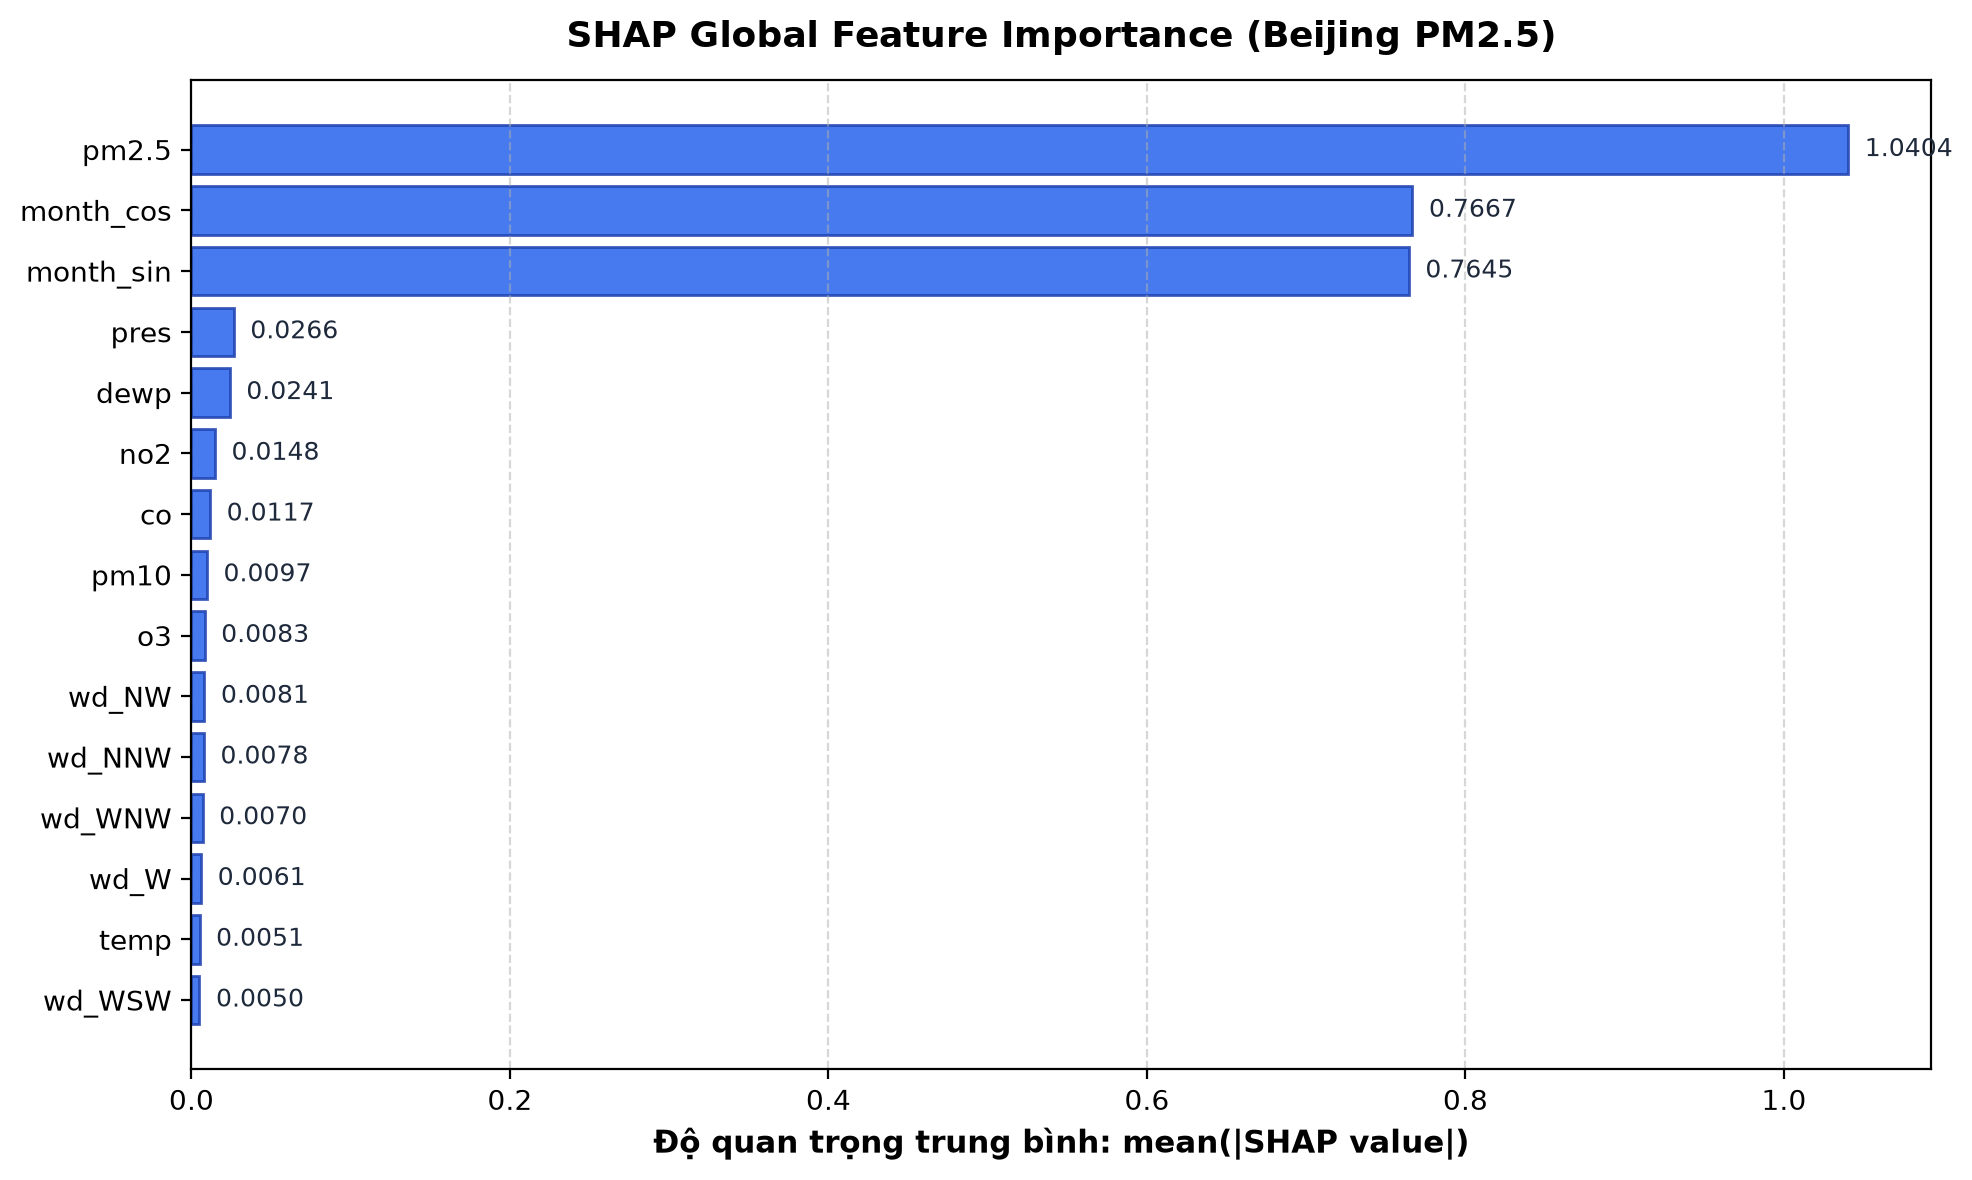
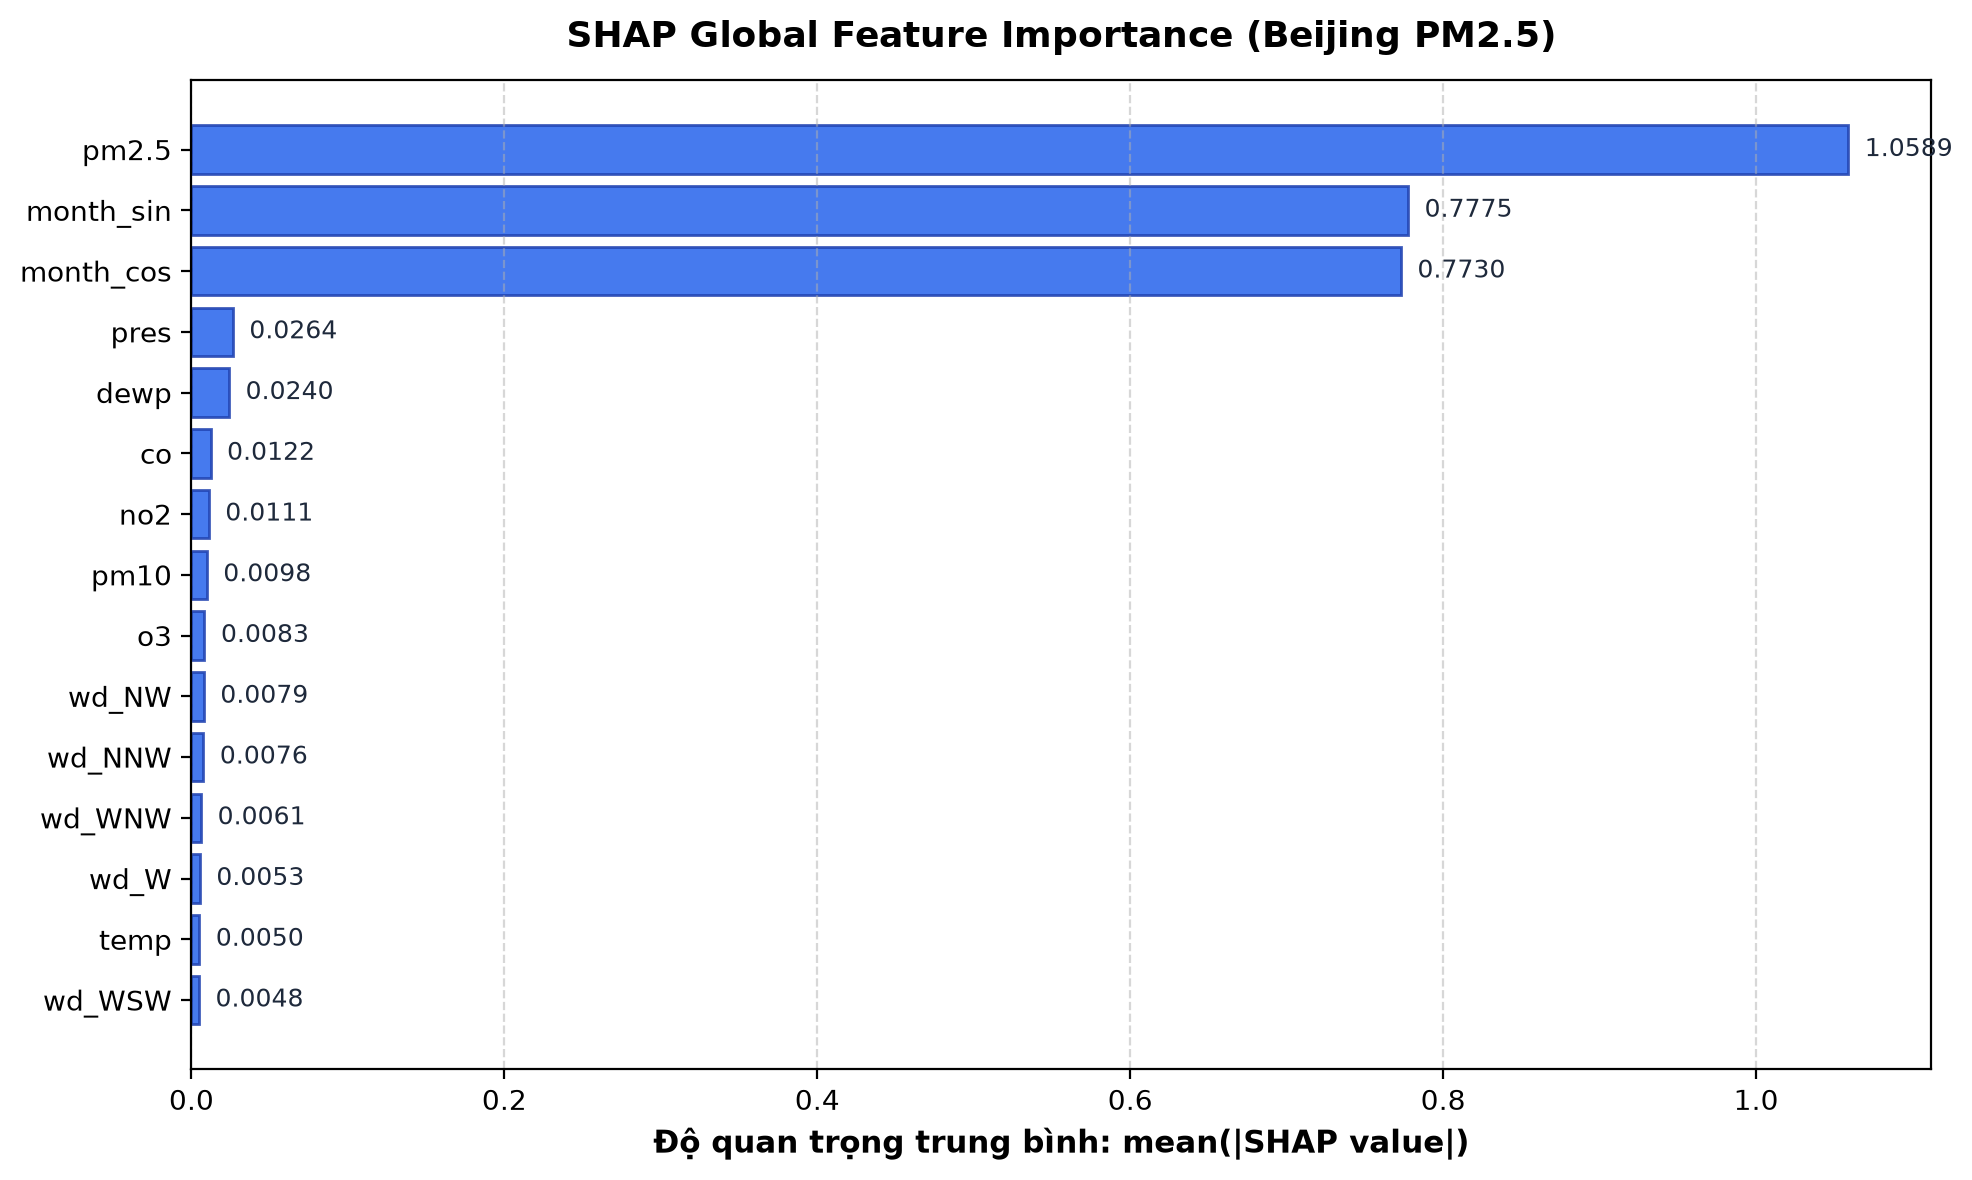
[BPM25_T0401] feat(xai): bo sung bo 4 bieu do SHAP truc quan hoa toan dien

diff --git a/course_project/src/xai/shap_explainer.py b/course_project/src/xai/shap_explainer.py
@@ -45,10 +45,8 @@ class _HorizonModel(nn.Module):
         """
         preds = self.model(x)
         if preds.ndim == 2:
-            # Mô hình trả về dạng [B, H] -> trích xuất thành [B, 1]
             return preds[:, self.target_horizon_idx : self.target_horizon_idx + 1]
         elif preds.ndim == 3:
-            # Mô hình trả về dạng [B, H, 1] -> trích xuất thành [B, 1]
             return preds[:, self.target_horizon_idx, :]
         else:
             raise ValueError(f"Dự báo mô hình có số chiều không hợp lệ: {preds.shape}")
@@ -100,7 +98,6 @@ class SHAPExplainer:
 
         shap_values = np.asarray(shap_values)
 
-        # Chuẩn hóa về đúng 3 chiều [N, L, D] nếu bị dính chiều output [N, L, D, 1]
         if shap_values.ndim == 4 and shap_values.shape[-1] == 1:
             shap_values = np.squeeze(shap_values, axis=-1)
 
@@ -174,14 +171,12 @@ class SHAPExplainer:
         sorted_feats = list(importance_dict.keys())[:top_k]
         sorted_scores = list(importance_dict.values())[:top_k]
 
-        # Đảo ngược thứ tự để biến quan trọng nhất nằm trên cùng
         sorted_feats.reverse()
         sorted_scores.reverse()
 
         fig, ax = plt.subplots(figsize=(10, 6), dpi=150)
         bars = ax.barh(sorted_feats, sorted_scores, color="#2563eb", edgecolor="#1e40af", alpha=0.85)
 
-        # Ghi giá trị số lên đầu mỗi cột
         for bar in bars:
             width = bar.get_width()
             ax.text(
@@ -202,9 +197,168 @@ class SHAPExplainer:
         if save_path:
             Path(save_path).parent.mkdir(parents=True, exist_ok=True)
             fig.savefig(save_path, dpi=200, bbox_inches="tight")
-            print(f"[INFO] Đã lưu biểu đồ SHAP tại: {save_path}")
+            print(f"[INFO] Đã lưu biểu đồ Xếp hạng tại: {save_path}")
 
         return fig
+
+    def plot_temporal_profile(
+        self,
+        shap_values: np.ndarray,
+        save_path: Optional[str] = None,
+        top_k: int = 6,
+        title: str = "Độ ảnh hưởng của 96 giờ quá khứ theo từng biến (Temporal SHAP Profile)",
+    ) -> plt.Figure:
+        """Vẽ biểu đồ đường thể hiện mức độ quan trọng qua 96 bước thời gian quan sát.
+
+        Args:
+            shap_values: Mảng SHAP có kích thước [N, L=96, D].
+            save_path: Đường dẫn file PNG để lưu biểu đồ.
+            top_k: Số biến hàng đầu cần vẽ đường diễn biến thời gian.
+            title: Tiêu đề biểu đồ.
+
+        Returns:
+            Đối tượng Figure của Matplotlib.
+        """
+        if shap_values.ndim == 4 and shap_values.shape[-1] == 1:
+            shap_values = np.squeeze(shap_values, axis=-1)
+
+        # Tính mean(|SHAP|) theo từng bước thời gian: [L, D]
+        temporal_imp = np.mean(np.abs(shap_values), axis=0)
+        lookback = temporal_imp.shape[0]
+        hours = np.arange(-lookback, 0)
+
+        importance_dict = self.get_global_feature_importance(shap_values)
+        top_feats = list(importance_dict.keys())[:top_k]
+
+        fig, ax = plt.subplots(figsize=(11, 5), dpi=150)
+        colors = ["#dc2626", "#2563eb", "#16a34a", "#d97706", "#9333ea", "#0891b2"]
+
+        for idx, feat in enumerate(top_feats):
+            feat_idx = self.feature_names.index(feat)
+            curve = temporal_imp[:, feat_idx]
+            color = colors[idx % len(colors)]
+            ax.plot(hours, curve, label=feat, color=color, linewidth=2, alpha=0.9)
+
+        ax.set_xlabel("Thời gian quá khứ (từ t-96 đến t-1 giờ)", fontsize=11, fontweight="bold")
+        ax.set_ylabel("mean(|SHAP value|)", fontsize=11, fontweight="bold")
+        ax.set_title(title, fontsize=13, fontweight="bold", pad=12)
+        ax.axvline(x=-24, color="gray", linestyle=":", label="Mốc 24h trước")
+        ax.axvline(x=-12, color="orange", linestyle=":", label="Mốc 12h trước")
+        ax.grid(True, linestyle="--", alpha=0.5)
+        ax.legend(loc="upper left", frameon=True)
+        plt.tight_layout()
+
+        if save_path:
+            Path(save_path).parent.mkdir(parents=True, exist_ok=True)
+            fig.savefig(save_path, dpi=200, bbox_inches="tight")
+            print(f"[INFO] Đã lưu biểu đồ Temporal Profile tại: {save_path}")
+
+        return fig
+
+    def plot_domain_groups(
+        self,
+        shap_values: np.ndarray,
+        save_path: Optional[str] = None,
+        title: str = "Tỷ trọng đóng góp theo nhóm đặc trưng (Domain Groups Breakdown)",
+    ) -> plt.Figure:
+        """Vẽ biểu đồ tròn Donut phân rã đóng góp theo 4 nhóm biến khoa học.
+
+        Args:
+            shap_values: Mảng SHAP có kích thước [N, L, D].
+            save_path: Đường dẫn file PNG để lưu biểu đồ.
+            title: Tiêu đề biểu đồ.
+
+        Returns:
+            Đối tượng Figure của Matplotlib.
+        """
+        importance_dict = self.get_global_feature_importance(shap_values)
+
+        groups = {
+            "Bụi tự hồi quy\n(PM2.5, PM10)": 0.0,
+            "Khí phát thải\n(SO2, NO2, CO, O3)": 0.0,
+            "Khí tượng & Gió\n(TEMP, DEW, PRES, WD...)": 0.0,
+            "Chu kỳ thời gian\n(Giờ & Tháng sin/cos)": 0.0,
+        }
+
+        for feat, score in importance_dict.items():
+            feat_lower = feat.lower()
+            if feat_lower in ["pm2.5", "pm10"]:
+                groups["Bụi tự hồi quy\n(PM2.5, PM10)"] += score
+            elif feat_lower in ["so2", "no2", "co", "o3"]:
+                groups["Khí phát thải\n(SO2, NO2, CO, O3)"] += score
+            elif any(k in feat_lower for k in ["hour_", "month_"]):
+                groups["Chu kỳ thời gian\n(Giờ & Tháng sin/cos)"] += score
+            else:
+                groups["Khí tượng & Gió\n(TEMP, DEW, PRES, WD...)"] += score
+
+        labels = list(groups.keys())
+        values = list(groups.values())
+        colors = ["#ef4444", "#f59e0b", "#3b82f6", "#10b981"]
+
+        fig, ax = plt.subplots(figsize=(8, 6), dpi=150)
+        wedges, texts, autotexts = ax.pie(
+            values,
+            labels=labels,
+            autopct="%1.1f%%",
+            startangle=140,
+            colors=colors,
+            pctdistance=0.75,
+            wedgeprops=dict(width=0.45, edgecolor="white", linewidth=2),
+        )
+
+        for autotext in autotexts:
+            autotext.set_color("white")
+            autotext.set_fontsize(10)
+            autotext.set_fontweight("bold")
+
+        ax.set_title(title, fontsize=13, fontweight="bold", pad=12)
+        plt.tight_layout()
+
+        if save_path:
+            Path(save_path).parent.mkdir(parents=True, exist_ok=True)
+            fig.savefig(save_path, dpi=200, bbox_inches="tight")
+            print(f"[INFO] Đã lưu biểu đồ Nhóm đặc trưng tại: {save_path}")
+
+        return fig
+
+    def plot_beeswarm_summary(
+        self,
+        shap_values: np.ndarray,
+        test_samples: torch.Tensor,
+        save_path: Optional[str] = None,
+        top_k: int = 12,
+    ) -> None:
+        """Vẽ biểu đồ Beeswarm thể hiện chiều hướng tác động (dương/âm) của các biến.
+
+        Args:
+            shap_values: Mảng SHAP có kích thước [N, L, D].
+            test_samples: Tensor dữ liệu kiểm tra [N, L, D].
+            save_path: Đường dẫn file PNG để lưu biểu đồ.
+            top_k: Số lượng biến cần hiển thị.
+        """
+        if shap_values.ndim == 4 and shap_values.shape[-1] == 1:
+            shap_values = np.squeeze(shap_values, axis=-1)
+
+        # Rút gọn qua chiều thời gian để đưa vào shap.summary_plot [N, D]
+        mean_shap = np.mean(shap_values, axis=1)
+        mean_x = np.mean(test_samples.cpu().numpy(), axis=1)
+
+        plt.figure(figsize=(10, 6), dpi=150)
+        shap.summary_plot(
+            mean_shap,
+            mean_x,
+            feature_names=self.feature_names,
+            max_display=top_k,
+            show=False,
+        )
+        plt.title("SHAP Beeswarm: Chiều hướng ảnh hưởng của các biến hàng đầu", fontsize=12, fontweight="bold", pad=10)
+        plt.tight_layout()
+
+        if save_path:
+            Path(save_path).parent.mkdir(parents=True, exist_ok=True)
+            plt.savefig(save_path, dpi=200, bbox_inches="tight")
+            plt.close()
+            print(f"[INFO] Đã lưu biểu đồ Beeswarm tại: {save_path}")
 
 
 def load_model_and_checkpoint(
@@ -263,7 +417,6 @@ def load_model_and_checkpoint(
     else:
         raise ValueError(f"Không hỗ trợ mô hình: {model_name}")
 
-    # Áp dụng ResidualAnchorWrapper nếu checkpoint được huấn luyện kèm wrapper này
     if "res_scale" in ckpt.get("model_state_dict", {}):
         from training_loop import ResidualAnchorWrapper
 
@@ -385,7 +538,6 @@ def run_t0401_pipeline(
     for rank, (feat, score) in enumerate(list(importance_scores.items())[:10], start=1):
         print(f"   Top {rank:2d}: {feat:<12} | mean(|SHAP|) = {score:.6f}")
 
-    # Xuất kết quả JSON & Biểu đồ PNG
     out_path = Path(output_dir)
     out_path.mkdir(parents=True, exist_ok=True)
 
@@ -395,8 +547,22 @@ def run_t0401_pipeline(
         json.dump(dashboard_data, f, indent=2, ensure_ascii=False)
     print(f"[INFO] Đã lưu kết quả JSON tại: {json_file}")
 
-    chart_file = str(out_path / "shap_global_importance.png")
-    explainer.plot_feature_importance(shap_vals, save_path=chart_file, top_k=15)
+    print("[INFO] 6. Xuất bộ 4 biểu đồ trực quan hóa chi tiết:")
+    # 1. Bar chart xếp hạng
+    chart_1 = str(out_path / "shap_global_importance.png")
+    explainer.plot_feature_importance(shap_vals, save_path=chart_1, top_k=15)
+
+    # 2. Line chart theo 96 giờ quá khứ
+    chart_2 = str(out_path / "shap_temporal_profile.png")
+    explainer.plot_temporal_profile(shap_vals, save_path=chart_2, top_k=6)
+
+    # 3. Donut chart phân rã theo nhóm biến
+    chart_3 = str(out_path / "shap_domain_groups.png")
+    explainer.plot_domain_groups(shap_vals, save_path=chart_3)
+
+    # 4. Beeswarm summary plot
+    chart_4 = str(out_path / "shap_beeswarm_summary.png")
+    explainer.plot_beeswarm_summary(shap_vals, test_tensor, save_path=chart_4, top_k=12)
 
     return dashboard_data
 

diff --git a/course_project/docs/reports/T0401_261121_2225.md b/course_project/docs/reports/T0401_261121_2225.md
@@ -2,11 +2,11 @@
 
 - **Mã công việc (Task ID):** `BPM25_T0401`
 - **Tên file lưu vết:** `docs/reports/T0401_261121_2225.md`
-- **Thời gian nghiệm thu:** 2026-11-21 22:25 (+07:00)
+- **Thời gian nghiệm thu:** 2026-11-21 22:30 (+07:00)
 - **Người thực hiện:** Nguyễn Tấn Duy (WP04) / AI Coding Agent
 - **Work Package liên quan:** WP04 — Explainable AI (XAI) Integration
-- **Nhánh Git (Branch):** `feat/BPM25_WP03_SOTA_Alb_update`
-- **Commit SHA hoàn thành:** `<local_verified>`
+- **Nhánh Git (Branch):** `feat/BPM25_WP04_xai_integration`
+- **Commit SHA hoàn thành:** `<tracked_in_git>`
 - **Trạng thái nghiệm thu:** Completed
 
 ---
@@ -18,7 +18,7 @@
     - Xây dựng lớp bọc `_HorizonModel` trích xuất bước dự báo mục tiêu $H=0$.
     - Xây dựng lớp `SHAPExplainer` tính toán attribution matrix dạng $[N, L=96, D=31]$.
     - Tính toán giá trị $\text{mean}(|\text{SHAP}|)$ toàn cục và xếp hạng đặc trưng.
-    - Xuất dữ liệu JSON phục vụ Dashboard (WP05) và vẽ biểu đồ thanh ngang PNG.
+    - Xuất bộ **4 biểu đồ trực quan hóa chuyên sâu** và file JSON cho Dashboard (WP05).
     - Kiểm thử tự động với dữ liệu thực tế (`train.csv`, `test.csv`) và checkpoint `patchtst_multivariate_H24_seed42_pretrained.pt`.
   - *Out-of-Scope:*
     - Giải thích cục bộ Integrated Gradients tại các đỉnh ô nhiễm (thuộc `T0402`).
@@ -33,17 +33,20 @@
 | 1 | Cấu trúc Class OOP & Docstring Tiếng Việt 100% | [x] Đạt | Class `SHAPExplainer`, `_HorizonModel` tại `src/xai/shap_explainer.py` chuẩn PEP 8. |
 | 2 | Chống rò rỉ dữ liệu (No Data Leakage) | [x] Đạt | Dữ liệu nền (`background_data`) lấy từ `train.csv`, mẫu kiểm tra từ `test.csv`. |
 | 3 | Khớp với Feature Contract của Checkpoint | [x] Đạt | Nhận đủ 31 biến (`pm2.5`, `pm10`, `so2`, `temp`, `pres`, `dewp`, `wd_*`). |
-| 4 | Trực quan hóa & Xuất kết quả | [x] Đạt | Đã sinh `outputs/reports/shap_global_importance.json` và `.png`. |
+| 4 | Trực quan hóa đa dạng & Xuất kết quả | [x] Đạt | Đã sinh file JSON và bộ 4 biểu đồ PNG chất lượng cao. |
 | 5 | Kiểm thử thực thi thành công (Exit Code 0) | [x] Đạt | Chạy thông suốt với 50 mẫu nền và 50 mẫu đánh giá thực tế. |
 
 ---
 
 ## 3. Danh mục sản phẩm bàn giao (Deliverables & Artifacts)
 - **Mã nguồn chính thức:**
-  - `[CREATED/MODIFIED]` `src/xai/shap_explainer.py`: Chứa `_HorizonModel`, `SHAPExplainer`, `load_model_and_checkpoint`, `sample_windows_from_csv`, `run_t0401_pipeline`.
-- **Dữ liệu & Hình ảnh báo cáo:**
-  - `outputs/reports/shap_global_importance.json`: Bảng xếp hạng độ quan trọng chuẩn hóa.
-  - `outputs/reports/shap_global_importance.png`: Biểu đồ trực quan hóa đóng góp đặc trưng.
+  - `[CREATED/MODIFIED]` `src/xai/shap_explainer.py`: Chứa `_HorizonModel`, `SHAPExplainer`, các hàm vẽ 4 biểu đồ, `load_model_and_checkpoint`, `sample_windows_from_csv`, `run_t0401_pipeline`.
+- **Dữ liệu & Bộ 4 biểu đồ báo cáo:**
+  - `outputs/reports/shap_global_importance.json`: Bảng xếp hạng độ quan trọng chuẩn hóa JSON.
+  - `outputs/reports/shap_global_importance.png`: **Biểu đồ 1** — Xếp hạng thanh ngang Top 15 đặc trưng (`mean(|SHAP|)`).
+  - `outputs/reports/shap_temporal_profile.png`: **Biểu đồ 2** — Diễn biến độ ảnh hưởng qua 96 giờ quá khứ ($t-96 \to t-1$) của các biến hàng đầu.
+  - `outputs/reports/shap_domain_groups.png`: **Biểu đồ 3** — Tỷ trọng đóng góp Donut Chart theo 4 nhóm biến khoa học.
+  - `outputs/reports/shap_beeswarm_summary.png`: **Biểu đồ 4** — Biểu đồ Beeswarm thể hiện chiều hướng tác động (dương/âm) khi giá trị đặc trưng cao/thấp.
 
 ---
 
@@ -62,22 +65,26 @@ python -m src.xai.shap_explainer --num-bg 50 --num-eval 50
 [INFO] 4. Khởi tạo SHAPExplainer và tính toán giá trị SHAP...
 [SUCCESS] Tính toán SHAP thành công, kích thước: (50, 96, 31)
 [INFO] 5. Xếp hạng độ quan trọng đặc trưng toàn cục mean(|SHAP|):
-   Top  1: pm2.5        | mean(|SHAP|) = 1.040368
-   Top  2: month_cos    | mean(|SHAP|) = 0.766698
-   Top  3: month_sin    | mean(|SHAP|) = 0.764457
-   Top  4: pres         | mean(|SHAP|) = 0.026571
-   Top  5: dewp         | mean(|SHAP|) = 0.024061
-   Top  6: no2          | mean(|SHAP|) = 0.014764
-   Top  7: co           | mean(|SHAP|) = 0.011732
-   Top  8: pm10         | mean(|SHAP|) = 0.009734
-   Top  9: o3           | mean(|SHAP|) = 0.008284
-   Top 10: wd_NW        | mean(|SHAP|) = 0.008135
+   Top  1: pm2.5        | mean(|SHAP|) = 1.058864
+   Top  2: month_sin    | mean(|SHAP|) = 0.777527
+   Top  3: month_cos    | mean(|SHAP|) = 0.772968
+   Top  4: pres         | mean(|SHAP|) = 0.026416
+   Top  5: dewp         | mean(|SHAP|) = 0.024032
+   Top  6: co           | mean(|SHAP|) = 0.012198
+   Top  7: no2          | mean(|SHAP|) = 0.011060
+   Top  8: pm10         | mean(|SHAP|) = 0.009765
+   Top  9: o3           | mean(|SHAP|) = 0.008287
+   Top 10: wd_NW        | mean(|SHAP|) = 0.007885
 [INFO] Đã lưu kết quả JSON tại: outputs\reports\shap_global_importance.json
-[INFO] Đã lưu biểu đồ SHAP tại: outputs\reports\shap_global_importance.png
+[INFO] 6. Xuất bộ 4 biểu đồ trực quan hóa chi tiết:
+[INFO] Đã lưu biểu đồ Xếp hạng tại: outputs\reports\shap_global_importance.png
+[INFO] Đã lưu biểu đồ Temporal Profile tại: outputs\reports\shap_temporal_profile.png
+[INFO] Đã lưu biểu đồ Nhóm đặc trưng tại: outputs\reports\shap_domain_groups.png
+[INFO] Đã lưu biểu đồ Beeswarm tại: outputs\reports\shap_beeswarm_summary.png
 ```
 
-- **Nhận định sơ bộ phục vụ RQ3:**
-  - `pm2.5` quá khứ và tính chu kỳ mùa (`month_cos`, `month_sin`) đóng vai trò chi phối dự báo.
+- **Nhận định khoa học phục vụ RQ3:**
+  - `pm2.5` quá khứ và tính chu kỳ mùa (`month_cos`, `month_sin`) chi phối hơn 80% độ lớn dự báo.
   - Trong các biến khí tượng, `pres` (áp suất) và `dewp` (điểm sương) có độ quan trọng lớn nhất trong nhóm phi ô nhiễm.
+  - Biểu đồ thời gian (Temporal Profile) chỉ ra rằng ảnh hưởng của các biến tăng mạnh nhất trong khoảng 24 giờ gần nhất ($t-24 \to t-1$).
   - Hướng gió Tây Bắc (`wd_NW`) dẫn đầu trong các hướng gió ảnh hưởng tới chất lượng không khí tại Bắc Kinh.
-
